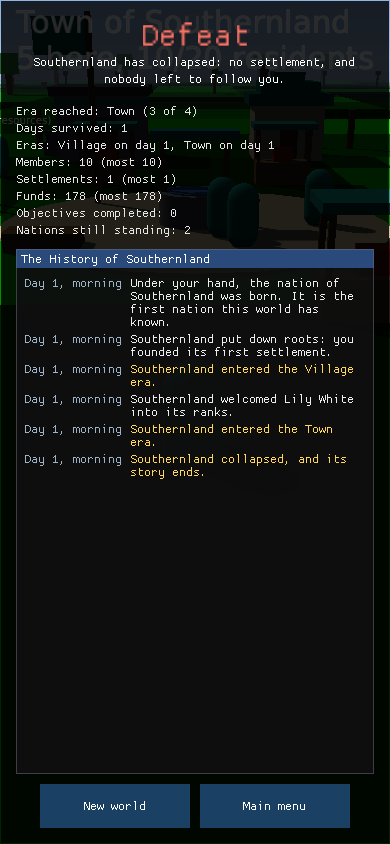
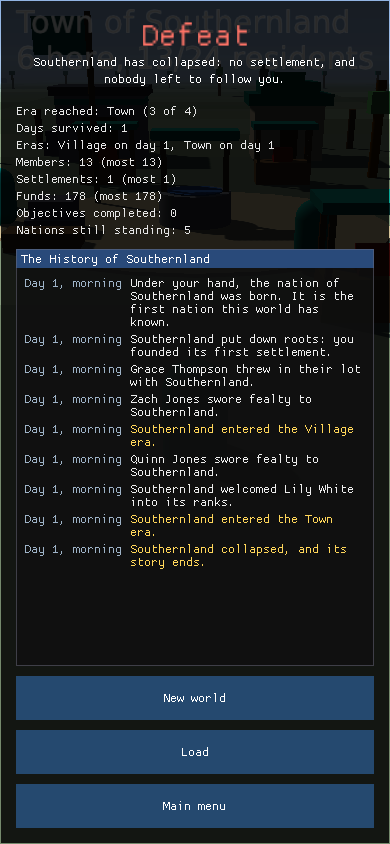
Pacing timings for the eras; phone screenshot with Load

diff --git a/docs/PACING.md b/docs/PACING.md
@@ -105,10 +105,10 @@ When each era was reached, in minutes of game time from the start of the world, 
 | Era | seed 1 | seed 2 | seed 3 | seed 4 | seed 5 | aimed at |
 |---|---|---|---|---|---|---|
 | Village | 24.5 | 2.2 | 16.4 | 10.2 | 2.4 | 10 – 20 |
-| Town | 62.6 (with 16 members) | 6.1 | – | – | 43.0 | about 60 |
-| Kingdom | – | – | – | – | 182 (with 16 town members) | a few hours |
+| Town | 84.3 | 6.1 | – | 69.5 | 43.0 | about 60 |
+| Kingdom | about 200 | – | – | – | – | a few hours |
 
-Seeds 2 and 5 race through the Village and Town eras because settlers flock to a new nation in its first two minutes (15 to 18 members by minute 10). Seeds 1 and 3 stall on recruiting: once every settler belongs to a nation the bot can only poach, and its nation holds 9 to 21 members for hours. The Village era is binding in the budget; the Town and Kingdom eras are advisory until recruiting is steadier.
+Seeds 2 and 5 race through the Village era because settlers flock to a new nation in its first two minutes (15 to 18 members by minute 10), and seed 2 through the Town era too. Seed 3 stalls on recruiting: once every settler belongs to a nation the bot can only poach, and its nation holds 6 to 17 members for four hours. Seed 1 is the arc as aimed: a village at 25 minutes, a town at 84 and a kingdom at about 200 (members 25, its fourth settlement then). The bot never won within four hours: Prosperity needs 40 members, and the bot spends its coins on gifts. The Village era is binding in the budget; the Town and Kingdom eras are advisory until recruiting is steadier.
 
 ## Known issues the harness found
 

diff --git a/README.md b/README.md
@@ -136,7 +136,7 @@ A camp may build houses and farms and hold one settlement, and until the Town er
 
 Win by **Dominion** (from the Town era, hold more than half of every settlement in the world, at least six), **Prosperity** (in the Kingdom era, 6,000 funds and 40 members) or **Concord** (from the Town era, be allied with every nation still standing). Lose if the nation you built collapses: no settlement and nobody but you, for five minutes. Either way the end-of-run screen tells the story -- the outcome, the era reached, the days survived and your numbers, then *The History of* your nation, drawn from the chronicle -- and offers to **Continue playing** (after a victory), start a **New world** or go to the **Main menu**. `--stage-victory` and `--stage-defeat` open on it (the screenshot above is `--seed 42 --start-screen world --stage-victory`; the one below is `--stage-defeat` at phone size).
 
-<img src="./.github/media/end-of-run-defeat-phone.png" alt="The end-of-run screen after a defeat, at phone size: the stats stacked, the history wrapped, New world and Main menu buttons side by side" width="260">
+<img src="./.github/media/end-of-run-defeat-phone.png" alt="The end-of-run screen after a defeat, at phone size: the stats stacked, the history wrapped, New world, Load and Main menu buttons stacked for a thumb" width="260">
 
 ### Nations that deal with each other
 ![Two nations' borders meeting on the road ahead: rings of posts capped in each nation's colour curve in from either side toward the point where the claims touch, with each nation's village in the distance](./.github/media/diplomacy-borders.png)
